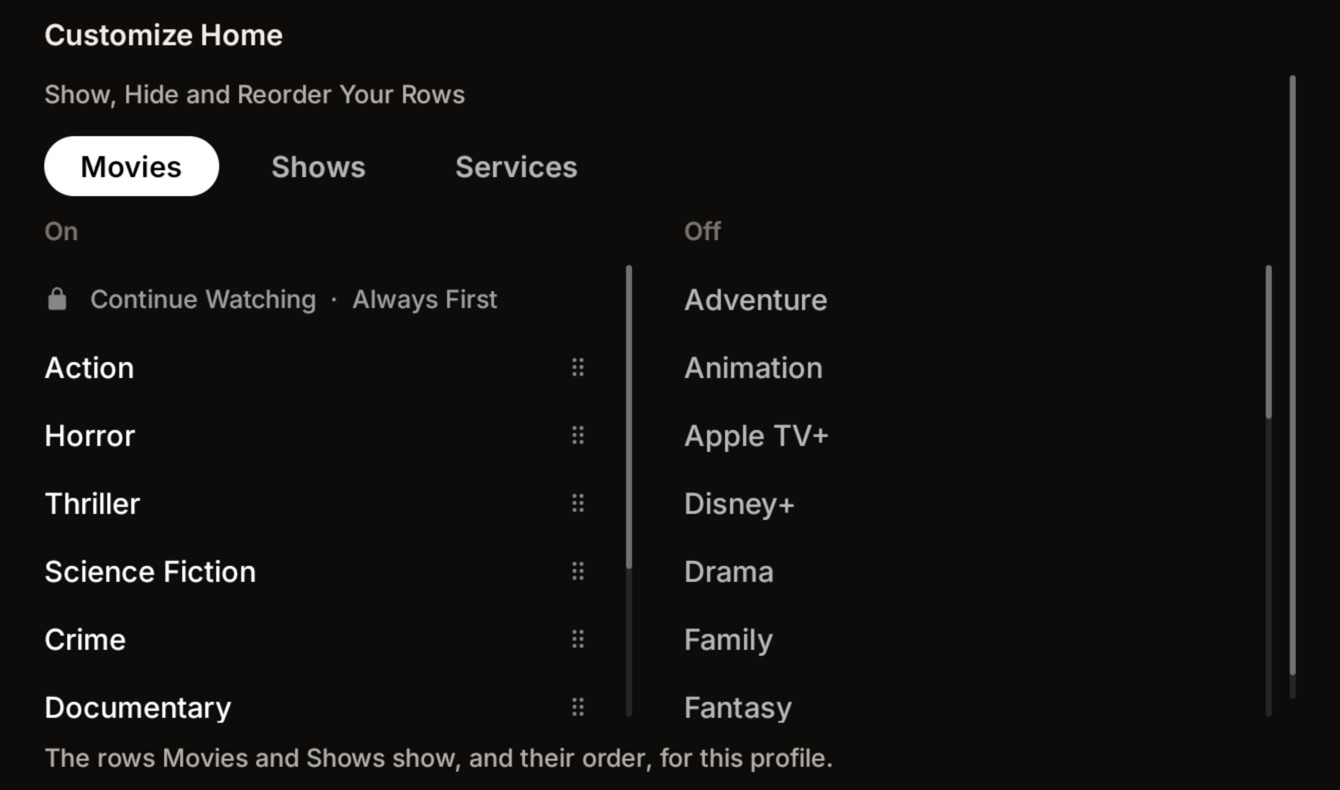
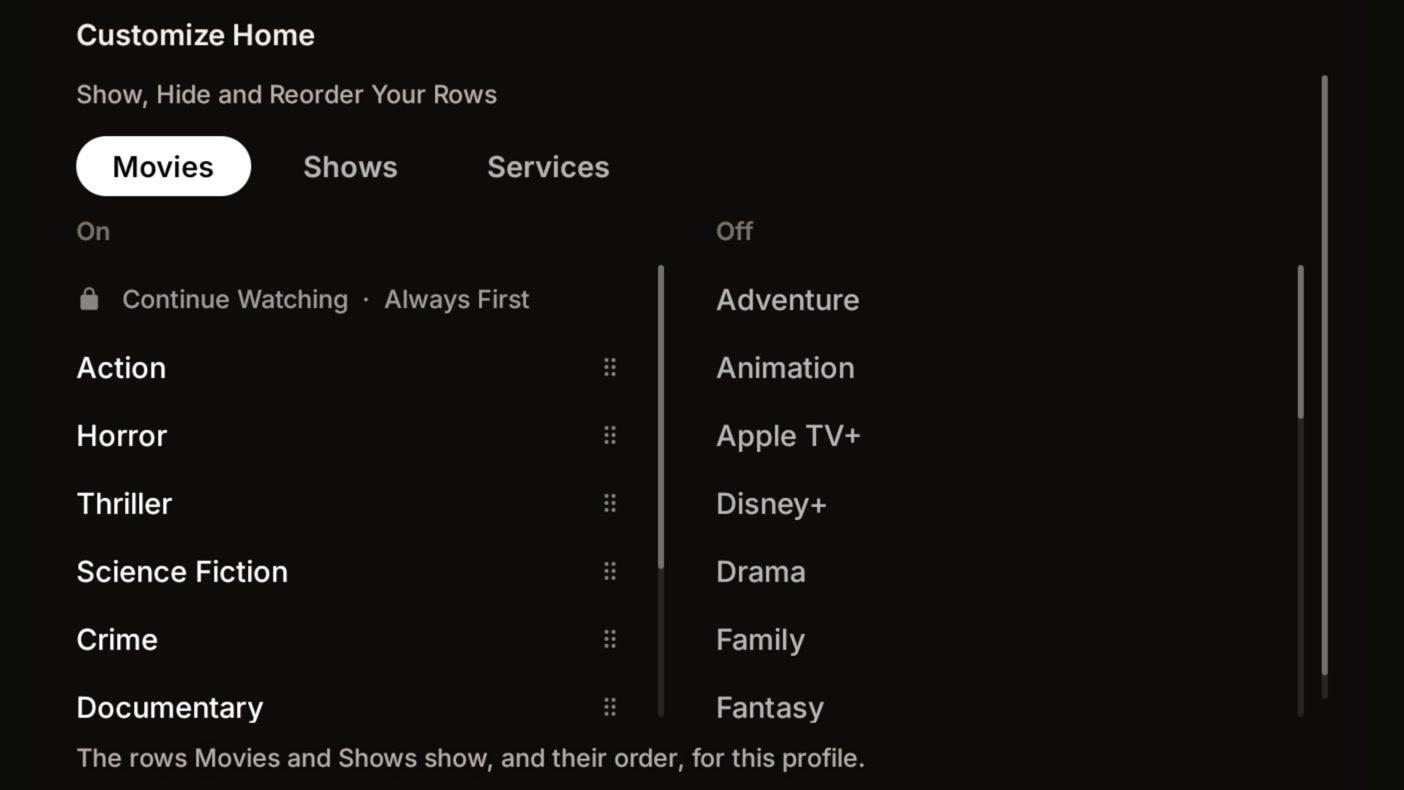
README: screenshots in a captioned two-column grid, as Alder's, with Genre Rows

diff --git a/README.md b/README.md
@@ -18,37 +18,20 @@ are Alder's own: see [Alder](https://github.com/aradhyas8/Alder).
 
 ## Features
 
-### Streaming Exclusives
-
-A **Services** tab with a row each for Netflix, Apple TV+, Disney+, Prime Video, Max, Hulu, Paramount+ and Peacock.
-**Exclusives Only** (on by default) keeps shows that stream on that service alone. Each row can pick a genre and
-Trending, New Series or Top Rated.
-
-<p><img src="docs/chadflix/services.jpg" alt="Services tab" width="49%"> <img src="docs/chadflix/services-menu.jpg" alt="Services row menu" width="49%"></p>
-
-### Showing Tile
-
-The first card of each genre row picks its list:
-
-- **Movies**: Trending (Default), New Releases, Blockbusters, Most Watched, Top Rated.
-- **Shows**: Trending (Default), New Series, Most Watched, Top Rated, Complete Series.
-
-Each row keeps its choice.
-
-<p align="center"><img src="docs/chadflix/showing-tile.jpg" alt="Showing tile" width="75%"></p>
-
-### Customizable Home Page
-
-Turn rows on or off and reorder them, separately for Movies, Shows and Services. Hold OK to rearrange. Rows that are
-off don't load.
-
-<p align="center"><img src="docs/chadflix/customize-home.jpg" alt="Customize Home" width="60%"></p>
-
-### Continue Watching
-
-A progress bar on each card and the time left under the row.
-
-<img src="docs/chadflix/continue-watching.jpg" alt="Continue Watching" width="100%">
+<table>
+  <tr>
+    <td width="50%" valign="top"><img src="docs/chadflix/services.jpg" alt="Services tab"><br><b>Streaming Exclusives.</b> A Services tab with a row each for Netflix, Apple TV+, Disney+, Prime Video, Max, Hulu, Paramount+ and Peacock.</td>
+    <td width="50%" valign="top"><img src="docs/chadflix/services-menu.jpg" alt="Services row menu"><br><b>Exclusives Only.</b> On by default: keeps shows that stream on that service alone. Each row can also pick a genre and Trending, New Series or Top Rated.</td>
+  </tr>
+  <tr>
+    <td valign="top"><img src="docs/chadflix/showing-tile.jpg" alt="Showing tile"><br><b>Showing Tile.</b> The first card of each genre row picks its list, like Trending, New Releases, Most Watched or Top Rated.</td>
+    <td valign="top"><img src="docs/chadflix/genre-rows.jpg" alt="Genre rows on the Shows tab"><br><b>Genre Rows.</b> Rows by genre on Movies and Shows. Each one keeps the list you chose.</td>
+  </tr>
+  <tr>
+    <td valign="top"><img src="docs/chadflix/customize-home.jpg" alt="Customize Home"><br><b>Customizable Home Page.</b> Turn rows on or off and reorder them, separately for Movies, Shows and Services. Hold OK to rearrange.</td>
+    <td valign="top"><img src="docs/chadflix/continue-watching.jpg" alt="Continue Watching"><br><b>Continue Watching.</b> A progress bar on each card and the time left under the row.</td>
+  </tr>
+</table>
 
 ## Install
 
